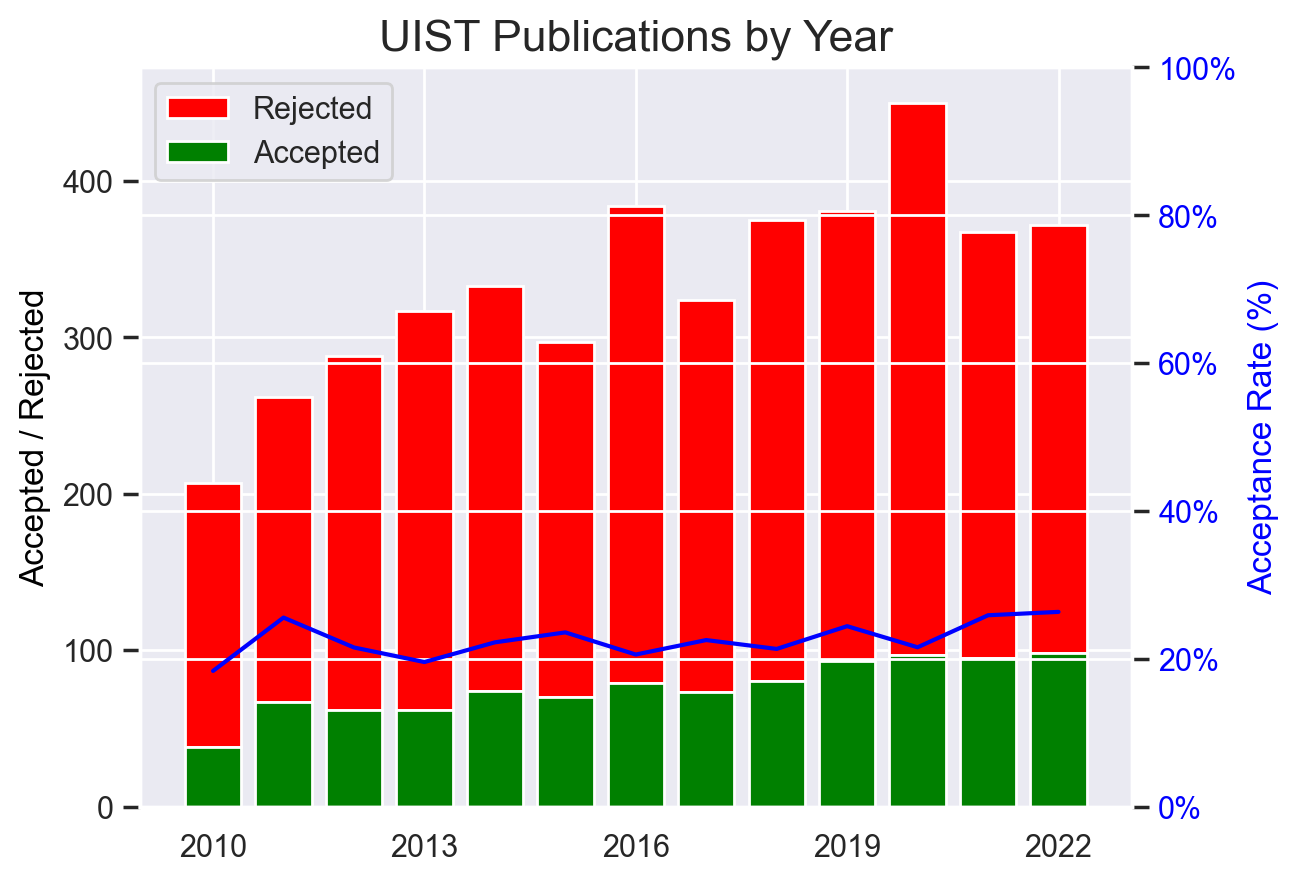
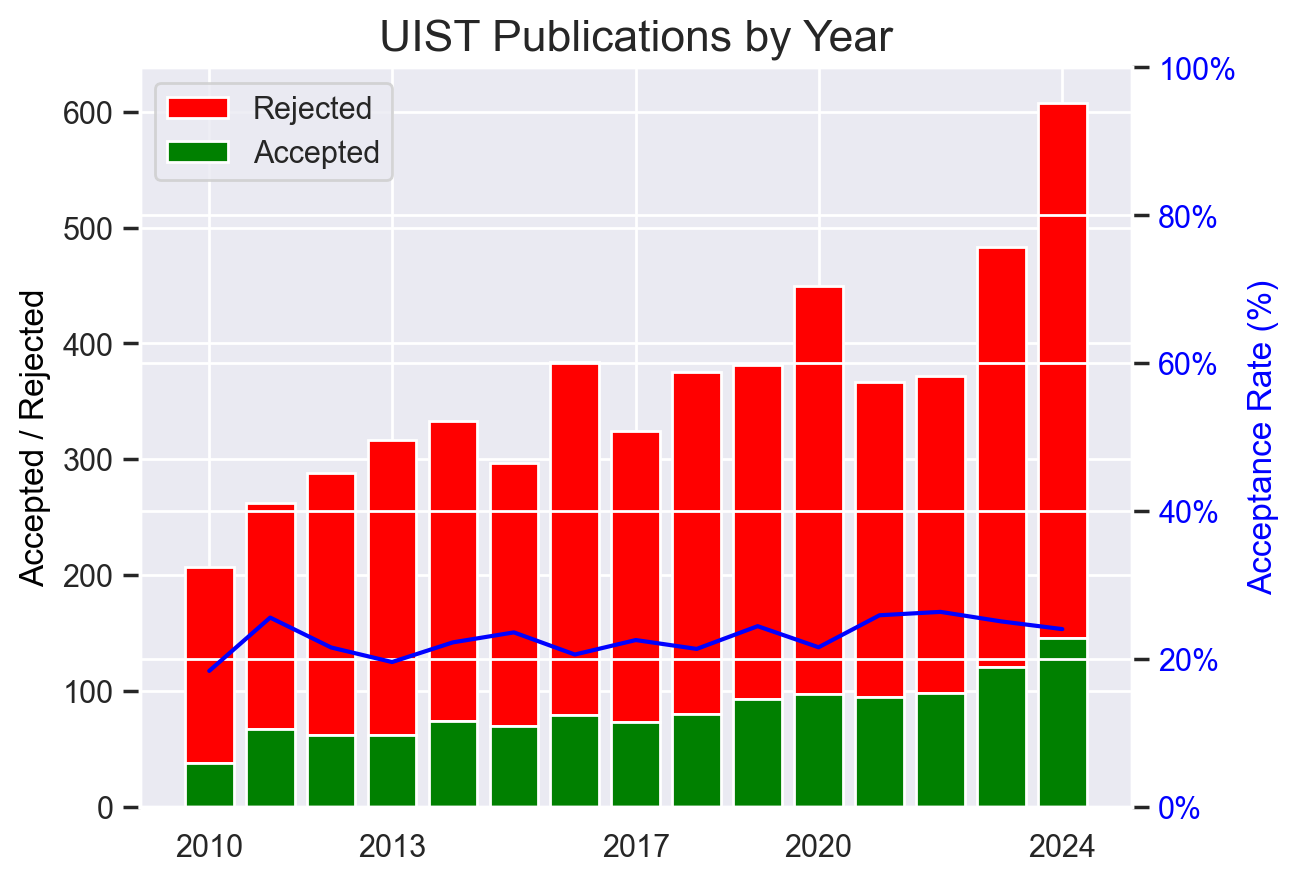
Updated HCI

diff --git a/README.md b/README.md
@@ -108,11 +108,11 @@
 </summary>
 <A NAME="CHI"></A>
 <P><B><A HREF="https://dblp.org/db/conf/chi/index.html">CHI</A></B>
- <em>mean acceptance rate, last 5 years: 25%</em></P>
+ <em>mean acceptance rate, last 5 years: 26%</em></P>
 <IMG SRC="https://github.com/emeryberger/csconferences/blob/main/graphs/CHI.png?raw=true" WIDTH="500">
 <A NAME="UIST"></A>
 <P><B><A HREF="https://dblp.org/db/conf/uist/index.html">UIST</A></B>
- <em>mean acceptance rate, last 5 years: 24%</em></P>
+ <em>mean acceptance rate, last 5 years: 25%</em></P>
 <IMG SRC="https://github.com/emeryberger/csconferences/blob/main/graphs/UIST.png?raw=true" WIDTH="500">
 </details>
 <details>
